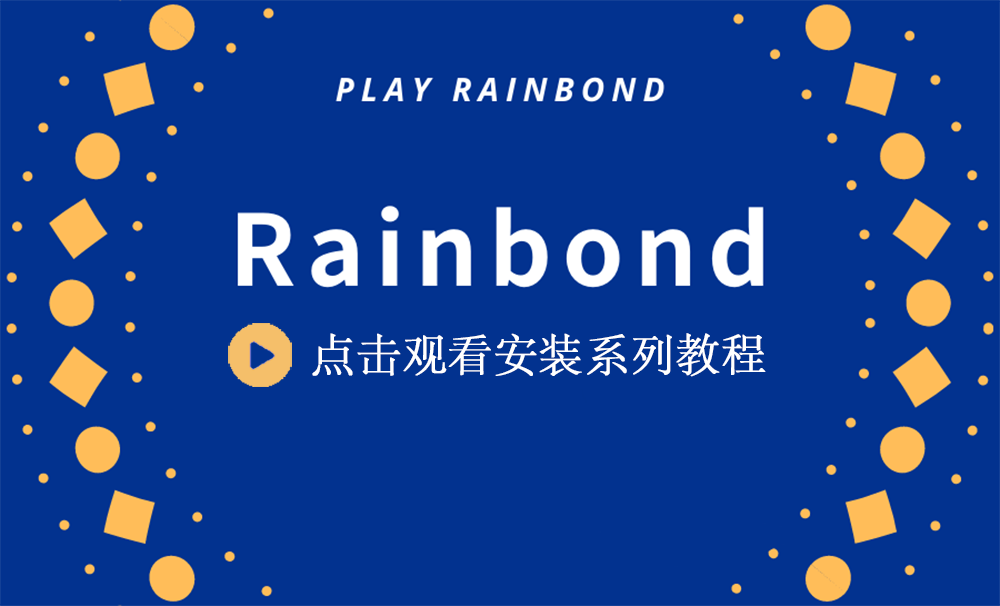
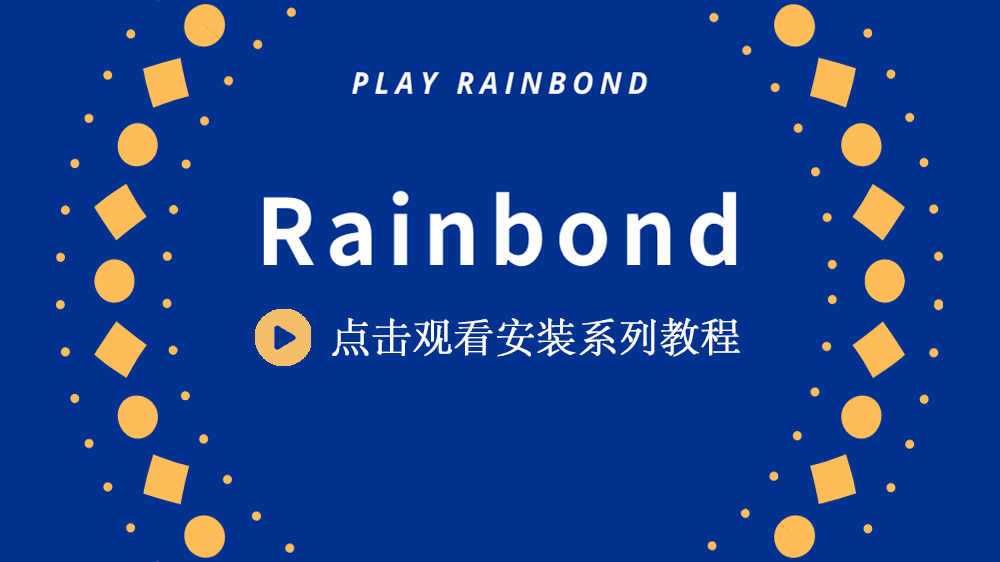
features: Video cover supports scrolling

diff --git a/src/components/Cswiper/index.js b/src/components/Cswiper/index.js
@@ -1,0 +1,39 @@
+import React, { useEffect, useState } from 'react';
+import { Navigation, A11y, Autoplay} from 'swiper';
+import { Swiper, SwiperSlide } from 'swiper/react';
+import 'swiper/css';
+import 'swiper/css/navigation';
+import 'swiper/css/scrollbar';
+
+export default function Index() {
+    return (
+      <>
+        <Swiper
+            modules={[Navigation, A11y, Autoplay]}
+            spaceBetween={50}
+            slidesPerView={2}
+            navigation
+            autoplay={{
+                delay: 2500,
+                disableOnInteraction: false,
+            }}
+        >
+            <SwiperSlide>
+                <a href='https://www.bilibili.com/video/BV1Vq4y1w7FQ' target='_blank'>
+                    <img src='/img/video/install.png' alt='' />
+                </a>
+            </SwiperSlide>
+            <SwiperSlide>
+                <a href='https://www.bilibili.com/video/BV1ou411B7ix' target='_blank'>
+                    <img src='/img/video/quick.png' alt='' />
+                </a>
+            </SwiperSlide>
+            <SwiperSlide>
+                <a href='https://www.bilibili.com/video/BV1vS4y1w7ps' target='_blank'>
+                    <img src='/img/video/gitlab+rainbond.png' alt='' />
+                </a>
+            </SwiperSlide>
+        </Swiper>
+      </>
+    );
+}

diff --git a/src/pages/index.js b/src/pages/index.js
@@ -6,7 +6,7 @@ import axios from 'axios';
 import React, { useEffect, useState } from 'react';
 import NavBar from '../components/NavBar';
 import styles from './index.module.scss';
-
+import Cswiper from '../components/Cswiper'
 export default function Home() {
   const { siteConfig } = useDocusaurusContext();
   const [mask_config, setMask_config] = useState(false);
@@ -493,7 +493,7 @@ export default function Home() {
             观看视频学习 &nbsp;
             <span className={styles.how_rainbond}>Rainbond</span>
           </h1>
-          <div
+          {/* <div
             className={`${styles.carousel_container} carousel_container animate__animated animate__fadeInRightBig`}
           >
             <a
@@ -509,7 +509,8 @@ export default function Home() {
             >
               <img src='/img/video/quick.png' alt='' />
             </a>
-          </div>
+          </div> */}
+          <Cswiper />
         </section>
       </div>
       {/* 底部 */}

diff --git a/static/img/video/README.md b/static/img/video/README.md
@@ -1,0 +1,3 @@
+### video cover image size
+
+1000 × 562
